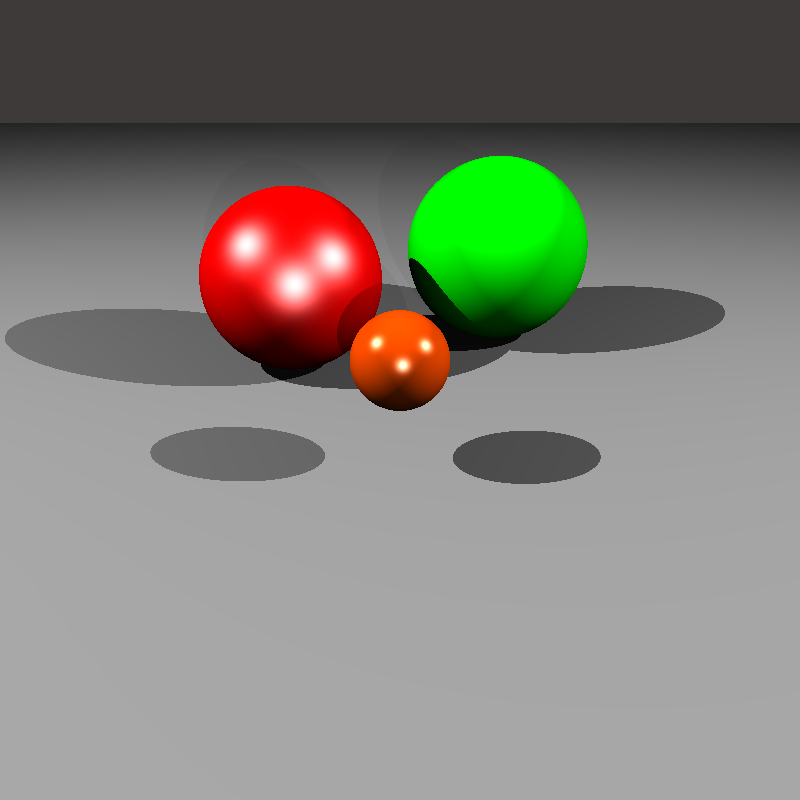
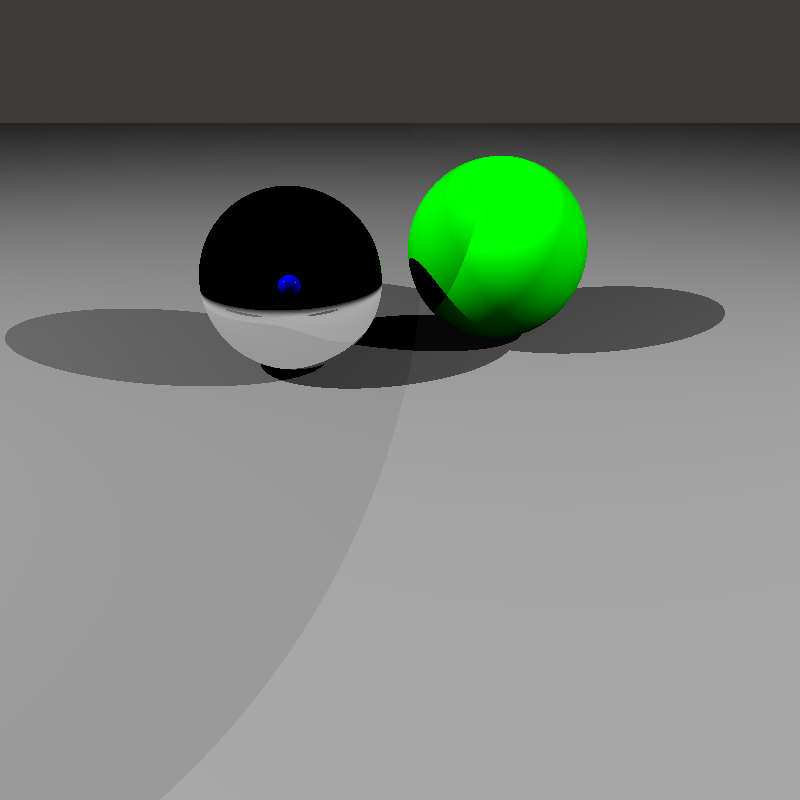
Got the mirrors to work. Need to fix the T value for the reflection.

Changed region(s): [[0.25, 0.2188, 0.5938, 0.5312], [0.1875, 0.5312, 0.4062, 0.625], [0.5625, 0.5312, 0.75, 0.625]]

diff --git a/main/run.cpp b/main/run.cpp
@@ -25,13 +25,15 @@ using namespace sivelab;
 
 inline bool exists_test1 (const std::string& name);
 
-int main(int argc, char *argv[]){
 
+
+int main(int argc, char *argv[]){
+    SceneContainer sc;
     GraphicsArgs args;
     args.process(argc, argv);
     framebuffer fb(args.width, args.height);
     int temp = fb.getHeight();
-    SceneContainer sc;
+
     std::string path = args.inputFileName;
     if(exists_test1(path)){
         sc.parseJSONData(path);
@@ -53,7 +55,7 @@ int main(int argc, char *argv[]){
                 if(sc.getShapes()[i]->intersect(0.05,tmax,h,r)){
                     if(sc.getShapes()[i]->getTvalue()<tmax){
                         tmax = sc.getShapes()[i]->getTvalue();
-                        rgb = sc.getShaders().at(sc.getShapes()[i]->getColor())->applyShader(r,sc.getLights(),sc.getShapes(),h);
+                        rgb = sc.getShaders().at(sc.getShapes()[i]->getColor())->applyShader(r,sc.getLights(),sc.getShapes(),h, sc.getShaders());
 //                        rgb.clamp(0,1);
                     }
                 }

diff --git a/renderer/MIrror.cpp b/renderer/MIrror.cpp
@@ -3,3 +3,33 @@
 //
 
 #include "MIrror.h"
+#include <map>
+
+sivelab::Vector3D Mirror::applyShader(Ray &r, std::vector<Light *> &lights, std::vector<Shape *> &shapes,
+                                      HitStruct &h, std::map<std::string, Shader*> &shaders) {
+    using namespace sivelab;
+    int count = 10;
+    int tmax = 999999;
+    Ray newRay(h.getNorm(),(h.getPointInterect() + (h.getNorm() * 0.001)));
+    return reflection(newRay, 0.0001, tmax, shapes,shaders ,lights);
+
+}
+
+
+
+sivelab::Vector3D Mirror::reflection(Ray r, double tmin, double tmax, std::vector<Shape *> &shapes,std::map<std::string, Shader*> &shaders, std::vector<Light *> &lights){
+
+    using namespace sivelab;
+    HitStruct h;
+    for(int i = 0; i<shapes.size();i++){
+        if(shapes[i]->intersect(tmin,tmax, h,r)) {
+            return shaders.at(shapes[i]->getColor())->applyShader(r,lights,shapes,h,shaders);
+        };
+    }
+
+    return Vector3D(0,0,0);
+
+}
+
+
+Mirror::Mirror() {}

diff --git a/renderer/MIrror.h b/renderer/MIrror.h
@@ -2,19 +2,30 @@
 // Created by brand on 3/4/2019.
 //
 
+#include <map>
 #include "Shader.h"
 
 #ifndef OPENGL_FCG_MIRROR_H
 #define OPENGL_FCG_MIRROR_H
 
 
-class MIrror : public Shader {
+class Mirror : public Shader {
 public:
-    MIrror();
+    int limit = 2;
+    int count = 0;
+    Mirror();
 
+    bool VisibilityQuery(Ray r, double tmin, double tmax, std::vector<Shape *> &shapes){}
+
+
+    sivelab::Vector3D reflection(Ray r, double tmin, double tmax, std::vector<Shape *> &shapes, std::map<std::string, Shader*> &shaders, std::vector<Light *> &lights);
+    sivelab::Vector3D applyShader(Ray &r, std::vector<Light *> &lights, std::vector<Shape *> &shapes, HitStruct &h, std::map<std::string, Shader*> &shaders );
 };
 
 
 #endif //OPENGL_FCG_MIRROR_H
 
-MIrror::MIrror() {}
+
+
+
+

diff --git a/renderer/BlinnPhong.h b/renderer/BlinnPhong.h
@@ -8,7 +8,7 @@
 
 #include "../src/Vector3D.h"
 #include "Shader.h"
-
+#include <map>
 using namespace sivelab;
 
 class BlinnPhong : public Shader {
@@ -22,7 +22,7 @@ public:
     BlinnPhong(const Vector3D &diffuse, const Vector3D &specular, float phongExp);
 
     bool VisibilityQuery(Ray r, double tmin, double tmax, std::vector<Shape *> &shapes);
-    sivelab::Vector3D applyShader(Ray &r, std::vector<Light *> &lights, std::vector<Shape *> &shapes, HitStruct &h );
+    sivelab::Vector3D applyShader(Ray &r, std::vector<Light *> &lights, std::vector<Shape *> &shapes, HitStruct &h, std::map<std::string, Shader*> &shaders);
 
 
 };

diff --git a/renderer/Shader.h b/renderer/Shader.h
@@ -30,6 +30,7 @@
 #include "../renderer/Shape.h"
 #include "../renderer/Light.h"
 #include "../renderer/HitStruct.h"
+#include <map>
 
 using namespace sivelab;
 
@@ -58,7 +59,7 @@ public:
 
     virtual bool VisibilityQuery(Ray r, double tmin, double tmax, std::vector<Shape *> &shapes) = 0;
 
-    virtual sivelab::Vector3D applyShader(Ray &r, std::vector<Light *> &lights, std::vector<Shape *> &shapes, HitStruct &h )=0;
+    virtual sivelab::Vector3D applyShader(Ray &r, std::vector<Light *> &lights, std::vector<Shape *> &shapes, HitStruct &h, std::map<std::string, Shader*> &shaders)=0;
 
 };
 

diff --git a/renderer/Lambertian.cpp b/renderer/Lambertian.cpp
@@ -5,14 +5,14 @@
 #include "Lambertian.h"
 #include <algorithm>
 #include <cfloat>
-
+#include <map>
 Lambertian::Lambertian(sivelab::Vector3D thisColor){
     setColor(thisColor);
 }
 
 
 
-sivelab::Vector3D Lambertian::applyShader(Ray &r, std::vector<Light *> &lights, std::vector<Shape *> &shapes, HitStruct &h ){
+sivelab::Vector3D Lambertian::applyShader(Ray &r, std::vector<Light *> &lights, std::vector<Shape *> &shapes, HitStruct &h, std::map<std::string, Shader*> &shaders){
     sivelab::Vector3D newColor(0,0,0);
     sivelab::Vector3D intensity;
 

diff --git a/renderer/Lambertian.h b/renderer/Lambertian.h
@@ -8,7 +8,7 @@
 
 #include "Shader.h"
 #include "../src/Vector3D.h"
-
+#include <map>
 class Lambertian : public Shader {
 
 public:
@@ -17,7 +17,7 @@ public:
 
     bool VisibilityQuery(Ray r, double tmin, double tmax, std::vector<Shape *> &shapes);
 
-    sivelab::Vector3D applyShader(Ray &r, std::vector<Light *> &lights, std::vector<Shape *> &shapes, HitStruct &h );
+    sivelab::Vector3D applyShader(Ray &r, std::vector<Light *> &lights, std::vector<Shape *> &shapes, HitStruct &h , std::map<std::string, Shader*> &shaders);
 
 };
 

diff --git a/renderer/BlinnPhong.cpp b/renderer/BlinnPhong.cpp
@@ -5,9 +5,9 @@
 #include "BlinnPhong.h"
 #include <math.h>
 #include <cfloat>
+#include <map>
 
-
-sivelab::Vector3D BlinnPhong::applyShader(Ray &r, std::vector<Light *> &lights, std::vector<Shape *> &shapes, HitStruct &h ){
+sivelab::Vector3D BlinnPhong::applyShader(Ray &r, std::vector<Light *> &lights, std::vector<Shape *> &shapes, HitStruct &h, std::map<std::string, Shader*> &shaders){
     sivelab::Vector3D newColor(0,0,0);
     sivelab::Vector3D intensity;
 

diff --git a/renderer/SceneContainer.cpp b/renderer/SceneContainer.cpp
@@ -6,6 +6,7 @@
 #include "Sphere.h"
 #include "PerspectiveCamera.h"
 #include "Triangle.h"
+#include "Mirror.h"
 
 
 
